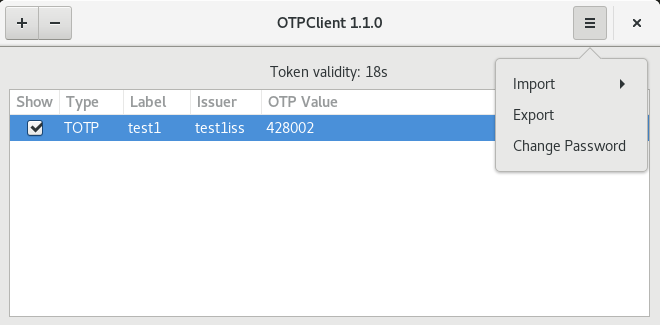
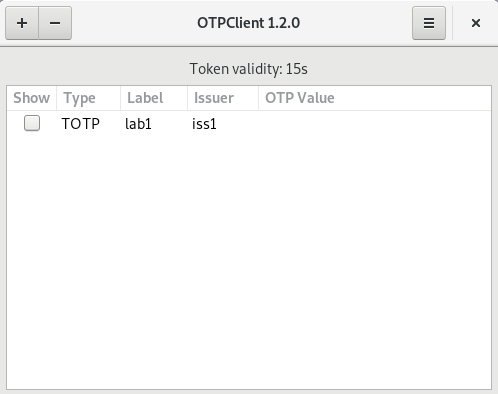
add screenshots and update appdata and readme
partially fixes #73

Changed region(s): [[0.0, 0.1538, 0.994, 1.0], [0.0, 0.0, 1.0, 0.1846], [0.994, 0.0, 1.0, 0.0308]]

diff --git a/README.md b/README.md
@@ -7,8 +7,10 @@
 Simple GTK+ v3 TOTP/HOTP client that uses [libcotp](https://github.com/paolostivanin/libcotp)
 
 ## Screenshots
+![Empty main window](/data/screenshots/empty-mainwin.png?raw=true "Empty main window")
 ![Main window](/data/screenshots/mainwin.png?raw=true "Main window")
-![Add tokens](/data/screenshots/addtokens.png?raw=true "Add new tokens")
+![Add tokens](/data/screenshots/add-new.png?raw=true "Add new tokens")
+![Settings menu](/data/screenshots/menu.png?raw=true "Settings menu")
 
 ## Requirements
 |Name|Min Version|Suggested Version|
